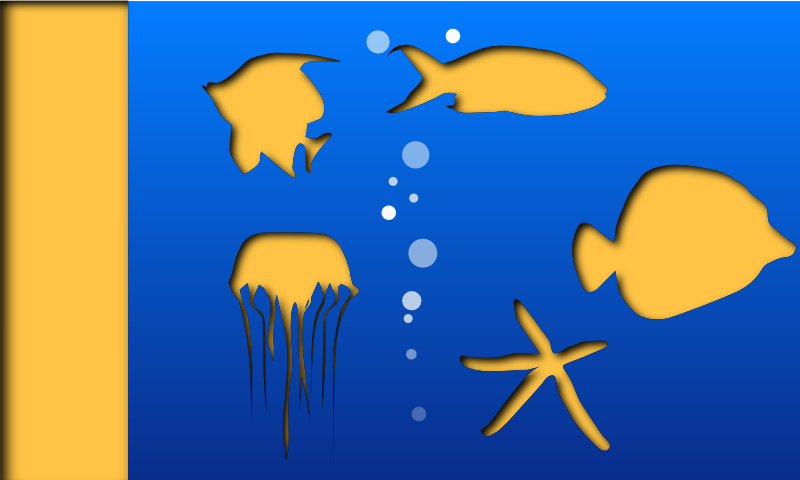
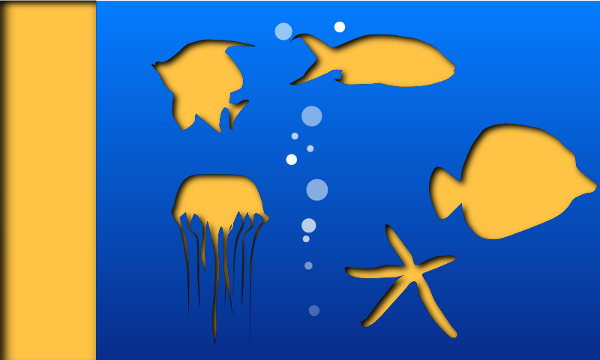
Changes: Working aquarium2 board

Changed region(s): [[0.15, 0.0, 0.18, 1.0]]

diff --git a/qml/KidPuzzleSymbian/BoardAquarium2.qml b/qml/KidPuzzleSymbian/BoardAquarium2.qml
@@ -5,23 +5,23 @@ Board {
     source: "aquarium2_board.png"
     Bit {
         source: "aquarium_1.png"
-        dockX: UI.leftMargin + 10; dockY:5; boardX: UI.leftMargin + 132; boardY: 17; dockW: 80; dockH: 65
+        dockX: UI.leftMargin + 10; dockY:8; boardX: UI.leftMargin + 430; boardY: 123; dockW: 80; dockH: 60
     }
     Bit {
         source: "aquarium_2.png"
-        dockX: UI.leftMargin + 5; dockY: 85; boardX: UI.leftMargin + 115; boardY: 177; dockW: 90; dockH: 40
+        dockX: UI.leftMargin + 5; dockY: 85; boardX: UI.leftMargin + 288; boardY: 33; dockW: 90; dockH: 30
     }
     Bit {
         source: "aquarium_3.png"
-        dockX: UI.leftMargin + 20; dockY: 145; boardX: UI.leftMargin + 272; boardY: 233; dockW: 65; dockH: 65
+        dockX: UI.leftMargin + 20; dockY: 145; boardX: UI.leftMargin + 344; boardY: 224; dockW: 55; dockH: 65
     }
     Bit {
         source: "aquarium_4.png"
-        dockX: UI.leftMargin + 10; dockY: 220; boardX: UI.leftMargin + 489; boardY: 193; dockW: 80; dockH: 65
+        dockX: UI.leftMargin + 10; dockY: 220; boardX: UI.leftMargin + 151; boardY: 39; dockW: 80; dockH: 65
     }
     Bit {
         source: "aquarium_5.png"
-        dockX: UI.leftMargin + 40; dockY: 290; boardX: UI.leftMargin + 371; boardY: 37; dockW: 30; dockH: 65
+        dockX: UI.leftMargin + 40; dockY: 290; boardX: UI.leftMargin + 171; boardY: 173; dockW: 30; dockH: 65
     }
 }
 
